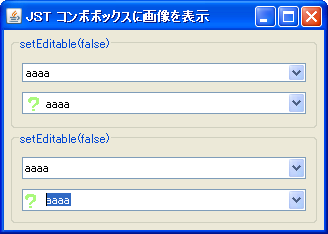
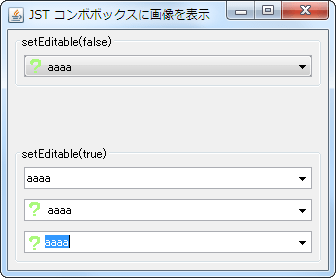
update: screenshot

diff --git a/IconComboBox/src/java/example/MainPanel.java b/IconComboBox/src/java/example/MainPanel.java
@@ -22,15 +22,15 @@ public final class MainPanel extends JPanel {
         combo03.setEditable(true);
         ComboBoxUtil.initComboBoxRenderer(combo03, image);
 
-        JComboBox<String> combo04 = new JComboBox<String>(makeModel()) {
-            @Override public void updateUI() {
-                setBorder(null);
-                super.updateUI();
-                setEditable(true);
-                ComboBoxUtil.initComboBoxRenderer(this, image);
-                setBorder(ComboBoxUtil.makeIconComboBorder(this, image));
-            }
-        };
+        //JComboBox<String> combo04 = new JComboBox<String>(makeModel()) {
+        //    @Override public void updateUI() {
+        //        setBorder(null);
+        //        super.updateUI();
+        //        setEditable(true);
+        //        ComboBoxUtil.initComboBoxRenderer(this, image);
+        //        setBorder(ComboBoxUtil.makeIconComboBorder(this, image));
+        //    }
+        //};
 
         JComboBox<String> combo05 = new JComboBox<String>(makeModel()) {
             @Override public void updateUI() {
@@ -53,7 +53,7 @@ public final class MainPanel extends JPanel {
         };
 
         add(makeTitlePanel("setEditable(false)", Arrays.asList(combo02)), BorderLayout.NORTH);
-        add(makeTitlePanel("setEditable(true)",  Arrays.asList(combo03, combo04, combo05, combo06)), BorderLayout.SOUTH);
+        add(makeTitlePanel("setEditable(true)",  Arrays.asList(combo03, combo05, combo06)), BorderLayout.SOUTH);
         setBorder(BorderFactory.createEmptyBorder(5, 5, 5, 5));
         setPreferredSize(new Dimension(320, 240));
     }
@@ -106,29 +106,29 @@ public final class MainPanel extends JPanel {
 
 final class ComboBoxUtil {
     private ComboBoxUtil() { /* Singleton */ }
-    public static Border makeIconComboBorder(final JComponent comp, final ImageIcon icon) {
-        Icon wrappedIcon = new ImageIcon() {
-            @Override public int getIconWidth() {
-                return icon.getIconWidth();
-            }
-            @Override public int getIconHeight() {
-                Insets is = comp.getInsets();
-                return comp.getPreferredSize().height - is.top - is.bottom;
-            }
-            @Override public void paintIcon(Component c, Graphics g, int x, int y) {
-                g.translate(x, y);
-                int ih = icon.getIconHeight();
-                int ch = getIconHeight();
-                int yy = Math.max((ch - ih) / 2, 0); //ch - ih > 0 ? (ch - ih) / 2 : 0;
-                g.drawImage(icon.getImage(), 0, yy, c);
-                g.translate(-x, -y);
-            }
-        };
-        Border b1 = BorderFactory.createMatteBorder(0, icon.getIconWidth(), 0, 0, wrappedIcon);
-        Border b2 = BorderFactory.createEmptyBorder(0, 5, 0, 0);
-        Border b3 = BorderFactory.createCompoundBorder(b1, b2);
-        return BorderFactory.createCompoundBorder(comp.getBorder(), b3);
-    }
+//     public static Border makeIconComboBorder(final JComponent comp, final ImageIcon icon) {
+//         Icon wrappedIcon = new ImageIcon() {
+//             @Override public int getIconWidth() {
+//                 return icon.getIconWidth();
+//             }
+//             @Override public int getIconHeight() {
+//                 Insets is = comp.getInsets();
+//                 return comp.getPreferredSize().height - is.top - is.bottom;
+//             }
+//             @Override public void paintIcon(Component c, Graphics g, int x, int y) {
+//                 g.translate(x, y);
+//                 int ih = icon.getIconHeight();
+//                 int ch = getIconHeight();
+//                 int yy = Math.max((ch - ih) / 2, 0); //ch - ih > 0 ? (ch - ih) / 2 : 0;
+//                 g.drawImage(icon.getImage(), 0, yy, c);
+//                 g.translate(-x, -y);
+//             }
+//         };
+//         Border b1 = BorderFactory.createMatteBorder(0, icon.getIconWidth(), 0, 0, wrappedIcon);
+//         Border b2 = BorderFactory.createEmptyBorder(0, 5, 0, 0);
+//         Border b3 = BorderFactory.createCompoundBorder(b1, b2);
+//         return BorderFactory.createCompoundBorder(comp.getBorder(), b3);
+//     }
     public static void initIconComboBorder1(JComboBox comboBox, final ImageIcon icon) {
         final JTextField comp = (JTextField) comboBox.getEditor().getEditorComponent();
         Icon wrappedIcon = new ImageIcon() {
@@ -141,13 +141,11 @@ final class ComboBoxUtil {
             }
             @Override public void paintIcon(Component c, Graphics g, int x, int y) {
                 Graphics2D g2 = (Graphics2D) g.create();
-                //g2.translate(x, y);
                 int ih = icon.getIconHeight();
                 int ch = getIconHeight();
                 int yy = Math.max((int) (.5 + (ch - ih) * .5), 0); //ch - ih > 0 ? (int) (.5 + (ch - ih) * .5) : 0;
                 g2.drawImage(icon.getImage(), 0, yy, c);
                 g2.dispose();
-                //g.translate(-x, -y);
             }
         };
         Border b1 = BorderFactory.createMatteBorder(0, icon.getIconWidth(), 0, 0, wrappedIcon);
